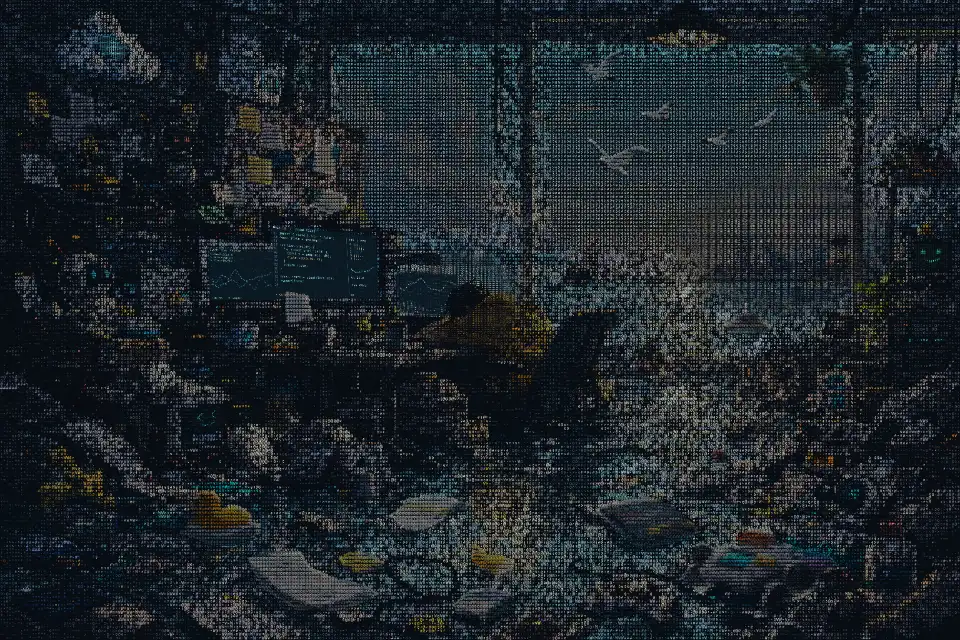
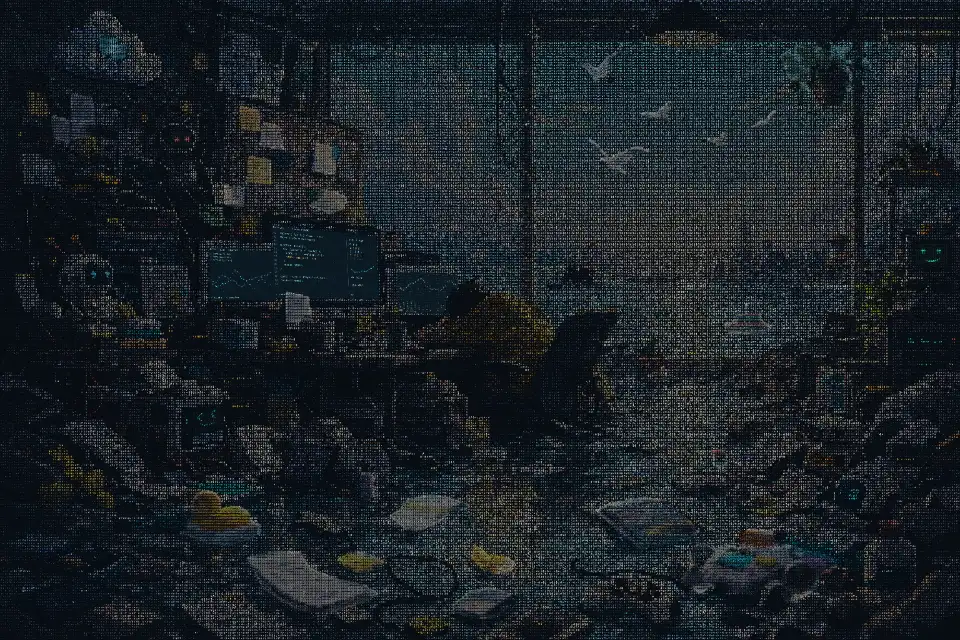
Unify scene typography with ten smaller ASCII sizes

diff --git a/ascii-renderer.js b/ascii-renderer.js
@@ -1,6 +1,6 @@
 import { detailShapes, detailPoint, cloudWindows, cloudSpeed, emitters } from './scene-details.js?v=20261110-depth6';
 import { GlyphAtlas } from './glyph-atlas.js?v=20261110-depth6';
-import { screens, paintScreen } from './screen-content.js?v=20261110-screens7';
+import { screens, paintScreen } from './screen-content.js?v=20261110-style9';
 import { faceLight, lampColor } from './scene-lights.js?v=20261110-depth6';
 import { quadPoint, drawQuad } from './scene-geometry.js?v=20261110-depth6';
 
@@ -40,6 +40,7 @@ export function inside(x, y, polygon) {
 }
 const clamp = (x, low = 0, high = 1) => Math.max(low, Math.min(high, x));
 const hash = (x, y) => { const n = Math.sin(x * 127.1 + y * 311.7) * 43758.5453; return n - Math.floor(n); };
+const sizeStops=[.01,.035,.1,.22,.44,.70,.87,.95,.985,1];
 const bands = ['.,', ':;', '-=', '+*', 'xo', '%#', 'MW', '@'];
 const light = c => (.2126 * c[0] + .7152 * c[1] + .0722 * c[2]) / 255;
 const color = c => `rgb(${c.map(v => Math.round(255 * (clamp(v / 255) ** .84))).join(' ')})`;
@@ -49,7 +50,8 @@ const skyPixel = rgb => (rgb[1] - rgb[0] > 15 && rgb[2] - rgb[0] > 20 && rgb[1] 
 const mix = (a, b, amount) => a.map((v, i) => v * (1 - amount) + b[i] * amount);
 const smooth = value => { const t = clamp(value); return t * t * (3 - 2 * t); };
 const yieldToBrowser = () => globalThis.scheduler?.yield ? scheduler.yield() : new Promise(resolve=>setTimeout(resolve,0));
-export const fontSizes = [.5,.6,.7,.8,.9,1,1.1,1.2,1.3];
+export const fontSizes = [.35,.4,.45,.5,.55,.6,.65,.7,.75,.8];
+const fontStep = size => fontSizes[clamp(Math.round((size-.35)/.05),0,fontSizes.length-1)];
 
 function flight(bird, time) {
   const route = bird.route, count = route.length;
@@ -109,18 +111,6 @@ const screenOccluder = [[722,460],[724,457],[727,457],[725,454],[728,452],[729,4
 // Only the loose bottom edge below the armrest. Back, shoulders and arms stay fixed.
 const hemArea = [[815,617],[848,615],[848,629],[839,637],[818,634]];
 const monitorHousing = [[416,340],[618,358],[620,498],[417,498]];
-// Refine a neighborhood, not an object's silhouette. Both grids fade over a
-// generous margin so rooftops and curls never acquire a clipped character rim.
-const detailRegions = [
-  { id: 'city', box: [1054,257,405,272], pitch: .48, size: .384 },
-  { id: 'head', box: [642,382,202,200], pitch: .52, size: .468 },
-];
-function detailWeight(x, y, region) {
-  const [bx,by,w,h]=region.box;
-  const distance=Math.hypot((x-bx-w/2)/(w/2),(y-by-h/2)/(h/2));
-  return 1-smooth((distance-.44)/.56);
-}
-const detailCoverage = (x,y) => Math.max(...detailRegions.map(region=>detailWeight(x,y,region)));
 const rippleSources = [[1150,570,0],[960,735,2.7],[465,866,4.4],[352,863,1.1]];
 
 function nearPolygon(x, y, polygon) {
@@ -288,10 +278,18 @@ export class AsciiRenderer {
     this.pixelRatio = dpr;
     for (const canvas of [this.canvas, this.base, this.cloudLayer, this.lightLayer, this.screenLayer]) { canvas.width = Math.round(width * dpr); canvas.height = Math.round(height * dpr); }
     this.ctx.setTransform(dpr, 0, 0, dpr, 0, 0);
-    this.columns = Math.min(380, Math.max(240, Math.round(width / 4.6)));
+    // One sampling lattice across the entire room: local half-pitch overlays
+    // created visible islands of different texture around the head and skyline.
+    this.columns = Math.min(480, Math.max(320, Math.round(width / 3.5)));
     this.rows = Math.round(height / (width / this.columns * 1.28));
     this.cellW = width / this.columns; this.cellH = height / this.rows;
-    this.fontSize = this.cellH * .98;
+    // Keep the previous ~5.8px reference font on desktop while packing the
+    // smaller 0.35–0.8 glyphs on a single finer lattice.
+    this.fontSize = this.cellH * 1.28;
+    for (const screen of this.screens) {
+      screen.fontSize=this.fontSize/this.scale*(screen.kind==='code'?.75:.65);
+      screen.frame=-1;
+    }
     this.palette = new GlyphAtlas(this.fontSize, Math.max(2,dpr));
     this.cloudCtx = this.cloudLayer.getContext('2d'); this.cloudCtx.setTransform(dpr,0,0,dpr,0,0);
     this.lightCtx = this.lightLayer.getContext('2d'); this.lightCtx.setTransform(dpr,0,0,dpr,0,0);
@@ -303,14 +301,13 @@ export class AsciiRenderer {
     this.prepare(baseCtx);
     this.dynamic = [];
     this.water = [];
-    this.cloudCells = []; this.cells = []; this.cityCells = []; this.fineCells = [];
+    this.cloudCells = []; this.cells = [];
     const staticCells = [];
     const sxStep = this.sourceW / this.columns, syStep = this.sourceH / this.rows;
     for (let row = 0; row < this.rows; row++) {
       for (let col = 0; col < this.columns; col++) {
       const sx = (col + .5) * sxStep, sy = (row + .5) * syStep;
       const {rgb,contrast} = this.sampleEdge(sx,sy,sxStep*.34,syStep*.34), seed = hash(col, row);
-      const alpha=1-detailCoverage(sx,sy);
       const isWater = waterAreas.some(poly => inside(sx, sy, poly)) &&
         ((rgb[2] > rgb[0] * 1.1 && rgb[1] > rgb[0] * 1.13) || (light(rgb) > .57 && rgb[0] > 150));
       const isHem = inside(sx, sy, hemArea) && rgb[0] > rgb[2] * 1.8;
@@ -319,19 +316,21 @@ export class AsciiRenderer {
         const [x,y,w,h]=source.box;
         return smooth(Math.min(sx-x,x+w-sx,sy-y,y+h-sy)/28);
       }));
-      const variedSize=fontSizes[Math.floor(seed**1.08*fontSizes.length)];
-      const calmSize=variedSize+(.8-variedSize)*skyWeight;
+      // Most letters share a calm middle weight. Retain all ten size steps,
+      // but use the extremes sparingly instead of making every surface noisy.
+      const variedSize=fontSizes[sizeStops.findIndex(stop=>seed<stop)];
+      const calmSize=variedSize+(.6-variedSize)*skyWeight;
       // Large glyphs crossing high-contrast silhouettes made bright outlines.
       // Keep the requested size bins, with smaller glyphs at those edges.
-      const edgeSize=calmSize+(Math.min(calmSize,.8)-calmSize)*smooth((contrast-45)/100);
-      const size=fontSizes[clamp(Math.round((edgeSize-.5)*10),0,8)];
-      // Nine discrete sizes, with one occupied cell at every grid position.
-      const cell = { sx, sy, rgb, size, alpha,
+      const edgeSize=calmSize+(Math.min(calmSize,.65)-calmSize)*smooth((contrast-45)/100);
+      const size=fontStep(edgeSize);
+      // Ten discrete sizes, with one occupied cell at every grid position.
+      const cell = { sx, sy, rgb, size,
         x: sx * this.scale + (seed - .5) * .4,
         y: sy * this.scale + (hash(row, col) - .5) * .35,
         seed, phase: seed * Math.PI * 2, glyph: glyph(rgb, seed), color: color(rgb),
         kind: isHem ? 'hem' : 'ambient' };
-      const isAmbient = !isWater && alpha===1 && contrast<65 && skyWeight<.1 && seed < .018 && !inside(sx, sy, personArea) && !inside(sx,sy,screenOccluder) && !inside(sx,sy,monitorHousing);
+      const isAmbient = !isWater && contrast<65 && skyWeight<.1 && seed < .018 && !inside(sx, sy, personArea) && !inside(sx,sy,screenOccluder) && !inside(sx,sy,monitorHousing);
       this.cells.push(cell);
       if (cloudIndex>=0) {
         this.cloudCells.push({...cell,cloudIndex});
@@ -352,37 +351,9 @@ export class AsciiRenderer {
     // interleaved atlas uploads previously dominated startup CPU time.
     for (let i=0;i<staticCells.length;i++) {
       const cell=staticCells[i];
-      baseCtx.globalAlpha=cell.alpha;
       this.palette.draw(baseCtx,cell.glyph,cell.rgb,cell.x,cell.y,cell.size);
       if (!(i%1024)) yield .6 + .15*i/staticCells.length;
     }
-    baseCtx.globalAlpha=1;
-    for (const region of detailRegions) {
-      const [bx,by,w,h]=region.box, stepX=sxStep*region.pitch, stepY=syStep*region.pitch;
-      for (let sy=by+stepY/2;sy<by+h;sy+=stepY) {
-        for (let sx=bx+stepX/2;sx<bx+w;sx+=stepX) {
-          const alpha=detailWeight(sx,sy,region);
-          if (alpha<.001) continue;
-          const {rgb}=this.sampleEdge(sx,sy,stepX*.34,stepY*.34);
-          const cell={sx,sy,x:sx*this.scale,y:sy*this.scale,rgb,size:region.size,
-            alpha,glyph:glyph(rgb,hash(sx,sy))};
-          this.fineCells.push(cell);
-          if (region.id==='city') this.cityCells.push(cell);
-          this.palette.get(cell.glyph,rgb);
-          cell.cloudIndex=this.cloudIndex(sx,sy,rgb);
-          if (cell.cloudIndex>=0) this.cloudCells.push(cell);
-        }
-        if (!(Math.floor((sy-by)/stepY)%8)) yield .75;
-      }
-    }
-    // No polygon clips or background clearing: retain complete glyphs on both
-    // sides of the transition, with complementary opacity for the two grids.
-    for (const cell of this.fineCells) {
-      if (cell.cloudIndex>=0) continue;
-      baseCtx.globalAlpha=cell.alpha;
-      this.palette.draw(baseCtx,cell.glyph,cell.rgb,cell.x,cell.y,cell.size);
-    }
-    baseCtx.globalAlpha=1;
     const spriteCells = (region, detail=1) => {
       const xStep=sxStep*detail, yStep=syStep*detail;
       const cells = [];
@@ -398,7 +369,7 @@ export class AsciiRenderer {
         }
         if (count < 3) continue;
         const rgb = sum.map(v => v / count);
-        cells.push({ sx: px / count, sy: py / count, glyph: glyph(rgb, hash(sx, sy)), color: color(rgb), size: detail*(.78 + .22 * clamp(count / (xStep * yStep))) });
+        cells.push({ sx: px / count, sy: py / count, glyph: glyph(rgb, hash(sx, sy)), color: color(rgb), size: fontStep(detail*(.6 + .15 * clamp(count / (xStep * yStep)))) });
       }
       return cells;
     };
@@ -414,7 +385,7 @@ export class AsciiRenderer {
           const u=x/width,v=y/height, p=quadPoint(emitter.polygon,u,v);
           const px=quadPoint(emitter.polygon,u+1/width,v), py=quadPoint(emitter.polygon,u,v+1/height);
           cells.push({x:p[0]*this.scale,y:p[1]*this.scale,u,v,
-            basis:[px[0]-p[0],px[1]-p[1],py[0]-p[0],py[1]-p[1]],glyph:'+*'[Math.floor(hash(x,y)*2)],size:2.8/syStep});
+            basis:[px[0]-p[0],px[1]-p[1],py[0]-p[0],py[1]-p[1]],glyph:'+*'[Math.floor(hash(x,y)*2)],size:fontStep(2.8*this.scale/this.fontSize)});
         }
         return {emitter,cells};
       }
@@ -424,7 +395,7 @@ export class AsciiRenderer {
         const intensity=(this.original[i]+this.original[i+1]+this.original[i+2])/765;
         if (emitter.kind==='lamp' && !(this.original[i+1]>120 && this.original[i+2]>130)) continue;
         cells.push({x:x*this.scale,y:y*this.scale,u:(x-bx)/w,v:(y-by)/h,intensity,
-          glyph: '+*'[Math.floor(hash(x,y)*2)],size:(emitter.kind==='lamp'?3.4:2.8)/syStep});
+          glyph: '+*'[Math.floor(hash(x,y)*2)],size:fontStep((emitter.kind==='lamp'?3.4:2.8)*this.scale/this.fontSize)});
       }
       return {emitter,cells};
     });
@@ -505,11 +476,9 @@ export class AsciiRenderer {
       // Finish atlas writes before reading from it; interleaving them forces a
       // full texture upload for every newly encountered color on some devices.
       for (const cell of this.cloudCells) {
-        this.cloudCtx.globalAlpha=cell.alpha;
         this.palette.draw(this.cloudCtx,cell.frameGlyph,cell.frameRGB,cell.x,cell.y,cell.size);
       }
     }
-    this.cloudCtx.globalAlpha=1;
     this.ctx.drawImage(this.cloudLayer,0,0,this.width,this.height);
   }
   drawScreens(time) {
@@ -583,7 +552,7 @@ export class AsciiRenderer {
         if (edge < 9) shine += (1 - edge / 9) ** 2 * Math.sin(Math.PI * age / 7.5) * .65;
       }
       if (shine < .035) continue;
-      ctx.globalAlpha = Math.min(.85, shine)*cell.alpha;
+      ctx.globalAlpha = Math.min(.85, shine);
       this.stamp(cell, cell.x, cell.y, cell.size);
     }
     ctx.globalAlpha = 1;
@@ -592,9 +561,8 @@ export class AsciiRenderer {
       if (cell.kind === 'hem') {
         y += Math.sin(time * 1.3) * .35 * clamp((cell.sy - 617) / 17) * this.scale;
       } else {
-        size = fontSizes[Math.max(0,Math.min(8,Math.round((cell.size-.5)*10) + Math.round(Math.sin(time*.75+cell.phase))))];
+        size = fontStep(cell.size+.05*Math.round(Math.sin(time*.75+cell.phase)));
       }
-      ctx.globalAlpha=cell.alpha;
       this.stamp(cell, x, y, size);
     }
     ctx.globalAlpha=1;
@@ -608,13 +576,13 @@ export class AsciiRenderer {
       ctx.fillStyle = '#080d13';
       for (const cell of sprite.cells) {
         const [x, y] = birdPoint(sprite.bird, cell.sx, cell.sy, time, pose);
-        const size = cell.size * pose.scale;
+        const size = clamp(cell.size * pose.scale,.35,.8);
         ctx.fillRect(x * this.scale - this.cellW * .43 * size, y * this.scale - this.cellH * .4 * size,
           this.cellW * .86 * size, this.cellH * .8 * size);
       }
       for (const cell of sprite.cells) {
         const [x, y] = birdPoint(sprite.bird, cell.sx, cell.sy, time, pose);
-        this.stamp(cell, x * this.scale, y * this.scale, cell.size * pose.scale);
+        this.stamp(cell, x * this.scale, y * this.scale, clamp(cell.size * pose.scale,.35,.8));
       }
     }
   }

diff --git a/index.html b/index.html
@@ -8,25 +8,25 @@
   <title>jaq/li</title>
   <link rel="icon" href="./assets/favicon.svg" type="image/svg+xml" />
   <link rel="stylesheet" href="./styles.css?v=20261110-depth6" />
-  <link rel="preload" href="./assets/scene-preview.webp?v=20261110-edges8" as="image" fetchpriority="high" />
+  <link rel="preload" href="./assets/scene-preview.webp?v=20261110-style9" as="image" fetchpriority="high" />
   <link rel="preload" href="./assets/scene.webp?v=20261110-depth6" as="fetch" crossorigin="anonymous" fetchpriority="low" />
-  <link rel="modulepreload" href="./ascii-renderer.js?v=20261110-edges8" />
+  <link rel="modulepreload" href="./ascii-renderer.js?v=20261110-style9" />
   <link rel="modulepreload" href="./site.config.js?v=20261110-depth6" />
   <link rel="modulepreload" href="./scene-loader.js?v=20261110-depth6" />
-  <link rel="modulepreload" href="./screen-content.js?v=20261110-screens7" />
+  <link rel="modulepreload" href="./screen-content.js?v=20261110-style9" />
   <link rel="modulepreload" href="./scene-lights.js?v=20261110-depth6" />
   <link rel="modulepreload" href="./navigation.js?v=20261110-load1" />
   <link rel="modulepreload" href="./scene-details.js?v=20261110-depth6" />
   <link rel="modulepreload" href="./glyph-atlas.js?v=20261110-depth6" />
   <link rel="modulepreload" href="./scene-geometry.js?v=20261110-depth6" />
   <link rel="modulepreload" href="./scene-floats.js?v=20261110-depth6" />
-  <script type="module" src="./app.js?v=20261110-edges8"></script>
+  <script type="module" src="./app.js?v=20261110-style9"></script>
 </head>
 <body class="home">
   <main id="scene-viewport" class="scene-viewport" aria-label="可探索的海边工作室">
     <div id="scene-world" class="scene-world">
       <img id="scene-image" class="scene-image" alt="海边工作室：电脑屏幕通往技术博客，人物通往个人 CV。" />
-      <img id="scene-poster" class="scene-poster" src="./assets/scene-preview.webp?v=20261110-edges8" fetchpriority="high" alt="" aria-hidden="true" />
+      <img id="scene-poster" class="scene-poster" src="./assets/scene-preview.webp?v=20261110-style9" fetchpriority="high" alt="" aria-hidden="true" />
       <canvas id="ascii-canvas" aria-hidden="true"></canvas>
       <svg id="hotspots" class="hotspots" viewBox="0 0 1536 1024" aria-label="场景中的页面入口"></svg>
     </div>

diff --git a/screen-content.js b/screen-content.js
@@ -1,4 +1,4 @@
-// These displays are already ASCII, at a finer pitch than the surrounding room.
+// Screen content shares the scene's reference font and requested size range.
 // Render once into their source-space textures; don't resample the text a second time.
 export const screens = [
   { kind: 'code', quad: [[434,359],[602,377],[608,479],[437,479]], width: 173, height: 120 },
@@ -28,7 +28,7 @@ export function paintScreen(screen, time) {
   const { ctx, width: w, height: h, kind } = screen;
   ctx.clearRect(0, 0, w, h);
   ctx.fillStyle = '#0a1923'; ctx.fillRect(0, 0, w, h);
-  ctx.font = kind === 'code' ? '500 5px monospace' : '500 4.2px monospace'; ctx.textBaseline = 'top';
+  ctx.font = `500 ${screen.fontSize}px monospace`; ctx.textBaseline = 'top';
   // A dim character bed and a feathered perimeter integrate the fine display
   // into the original reflection and rim without a sharp rectangular patch.
   for (let y = 1; y < h; y += 4.8) text(ctx, '. : '.repeat(Math.ceil(w / 8)), 1, y, '#1e3440');

diff --git a/app.js b/app.js
@@ -1,5 +1,5 @@
 import { site } from './site.config.js?v=20261110-depth6';
-import { AsciiRenderer, birds, birdPoint } from './ascii-renderer.js?v=20261110-edges8';
+import { AsciiRenderer, birds, birdPoint } from './ascii-renderer.js?v=20261110-style9';
 import { loadSceneImage } from './scene-loader.js?v=20261110-depth6';
 import './navigation.js?v=20261110-load1';
 

diff --git a/README.md b/README.md
@@ -21,7 +21,7 @@ python3 -m http.server 8081 --bind 0.0.0.0
 
 入口多边形与目标链接位于 `site.config.js`，原图尺寸为 1536 × 1024。首页无上传、拖入图片或密度调整功能。
 
-渲染由 `ascii-renderer.js` 完成。桌面基础字符间距约 4.6 px（1536 px 宽时为 334 列），字号使用 0.5–1.3 倍共九档，间隔 0.1，每格均保留字符。屏幕通过更细的 ASCII 文本、双通道波形、频谱和状态侧栏保留细节，边缘渐变接回原图反光与边框。水面使用完整的字符底层，移动反光与局部涟漪不会留下黑缝；人物躯干和手臂保持固定。
+渲染由 `ascii-renderer.js` 完成。全景共用约 3.5 px 间距的字符网格（1536 px 宽时为 439 列），字号使用 0.35–0.8 倍共十档，间隔 0.05；主要集中在中间档位，每格均保留字符。屏幕与动态物体使用相同的基准字号和范围，通过 ASCII 文本、双通道波形、频谱和状态侧栏保留细节，边缘渐变接回原图反光与边框。水面使用完整的字符底层，移动反光与局部涟漪不会留下黑缝；人物躯干和手臂保持固定。
 
 首屏优先显示 `assets/scene-preview.webp` 中预先渲染的 ASCII，下载 `assets/scene.webp` 后分段初始化动画，保持入口可点击。进度条跟随真实下载字节数、物体准备和字符绘制进度；没有长度头时，下载阶段显示不定进度。原始 PNG 不参与首页下载。静态字符同样复用图集，云纹理生成复用数组，同尺寸重复布局不会重新生成缓存。修改渲染样式或原图后，在静态服务运行时执行 `node tools/prepare-scene.cjs` 更新这两个资源（需要 ffmpeg、Playwright 和 Chromium）。
 
@@ -29,7 +29,7 @@ python3 -m http.server 8081 --bind 0.0.0.0
 
 `scene-details.js` 定义机器人眨眼、黄鸭与泳圈的浮动、九张纸的固定点与风动、吊盆叶尖和云层区域。`scene-lights.js` 控制机械云变色呼吸灯、红眼目光以及两侧机器人的四种表情，`screen-content.js` 绘制三块屏幕。云层在窗框后漂移；太阳、城市与室内结构保持稳定。`glyph-atlas.js` 缓存全景与灯光的彩色字符。[逐项动作设计与边界](docs/scene-motion.md)记录了受力方式、固定点和遮挡处理。
 
-整体字号略缩小，天空使用稳定的小字和更细的颜色分档；远景楼体使用约一半间距的细网格。`scene-geometry.js` 统一显示屏与左下机器人面板的四角透视。右侧显示区域扩到内侧 1–2 圈白色字符，人物头发仍遮挡显示器。`scene-floats.js` 为船、罐子、纸张、平板、手机与玩具车配置独立的浮动周期和相位；加上黄鸭，共十一组漂浮物。
+城市、人物与周围场景共用同一网格、字形和颜色规则，不叠加局部细网格。边缘取色避免跨物体混色，天空使用稳定的小字；发丝按原图遮挡屏幕，保留发丝之间的背景空隙。`scene-geometry.js` 统一显示屏与左下机器人面板的四角透视。右侧显示区域扩到内侧 1–2 圈白色字符，人物头发仍遮挡显示器。`scene-floats.js` 为船、罐子、纸张、平板、手机与玩具车配置独立的浮动周期和相位；加上黄鸭，共十一组漂浮物。
 
 ## 内容映射
 

diff --git a/docs/scene-motion.md b/docs/scene-motion.md
@@ -4,8 +4,8 @@
 
 | 元素 | 实现与边界 |
 | --- | --- |
-| 字号层次 | 基础间距约 4.6 px，每格均保留字符。0.5–1.3 倍九档字号，每 0.1 一档；整体基准字号比上一版缩小约 8%，大字出现比例略降，天空使用稳定的小字。 |
-| 远景城市 | 楼体轮廓内使用约一半间距、一半字号的细网格，直接读取原图细节，恢复楼顶和窗户；城市不随云移动。 |
+| 字号层次 | 全景约 3.5 px 间距，0.35–0.8 倍十档字号，每 0.05 一档，以中间档位为主。静态场景、屏幕与动态物体共用字号范围，天空保持稳定字形。 |
+| 远景城市 | 与天空、室内和人物共用同一细网格，不在楼体轮廓内裁切或叠加独立网格。边缘采样保留楼顶、窗户及与天空的明暗对比；城市不随云移动。 |
 | 三块电脑屏幕 | 保留更细的 ASCII 文本而不二次降采样。四角投影跟随实际显示面的斜向与纵深。中间屏幕覆盖代码、CPU/MEM 侧栏、波形、帧数和底部状态。左屏顶部进一步覆盖约 1–2 层浅色白边，双通道波形与日志按新高度排布。右屏保持完整平行四边形，向右下延伸到头部后方，以贴合发梢的独立轮廓遮挡，保留外边框。12 fps 更新，四边羽化。 |
 | 左侧白色机器人眼睛 | 只提取两只眼睛的青色 LED。每 3.2 秒短暂眨眼，目光小幅偏移；头壳、天线、身体均固定。眼睛使用更细的字符，保留小尺寸表情。 |
 | 机械云灯光 | 只替换中心发光区域。青色、紫色、暖橙、薄荷色平滑过渡，亮度按 4.4 秒周期呼吸，核心保留高光。云形外壳、线路不动。 |
